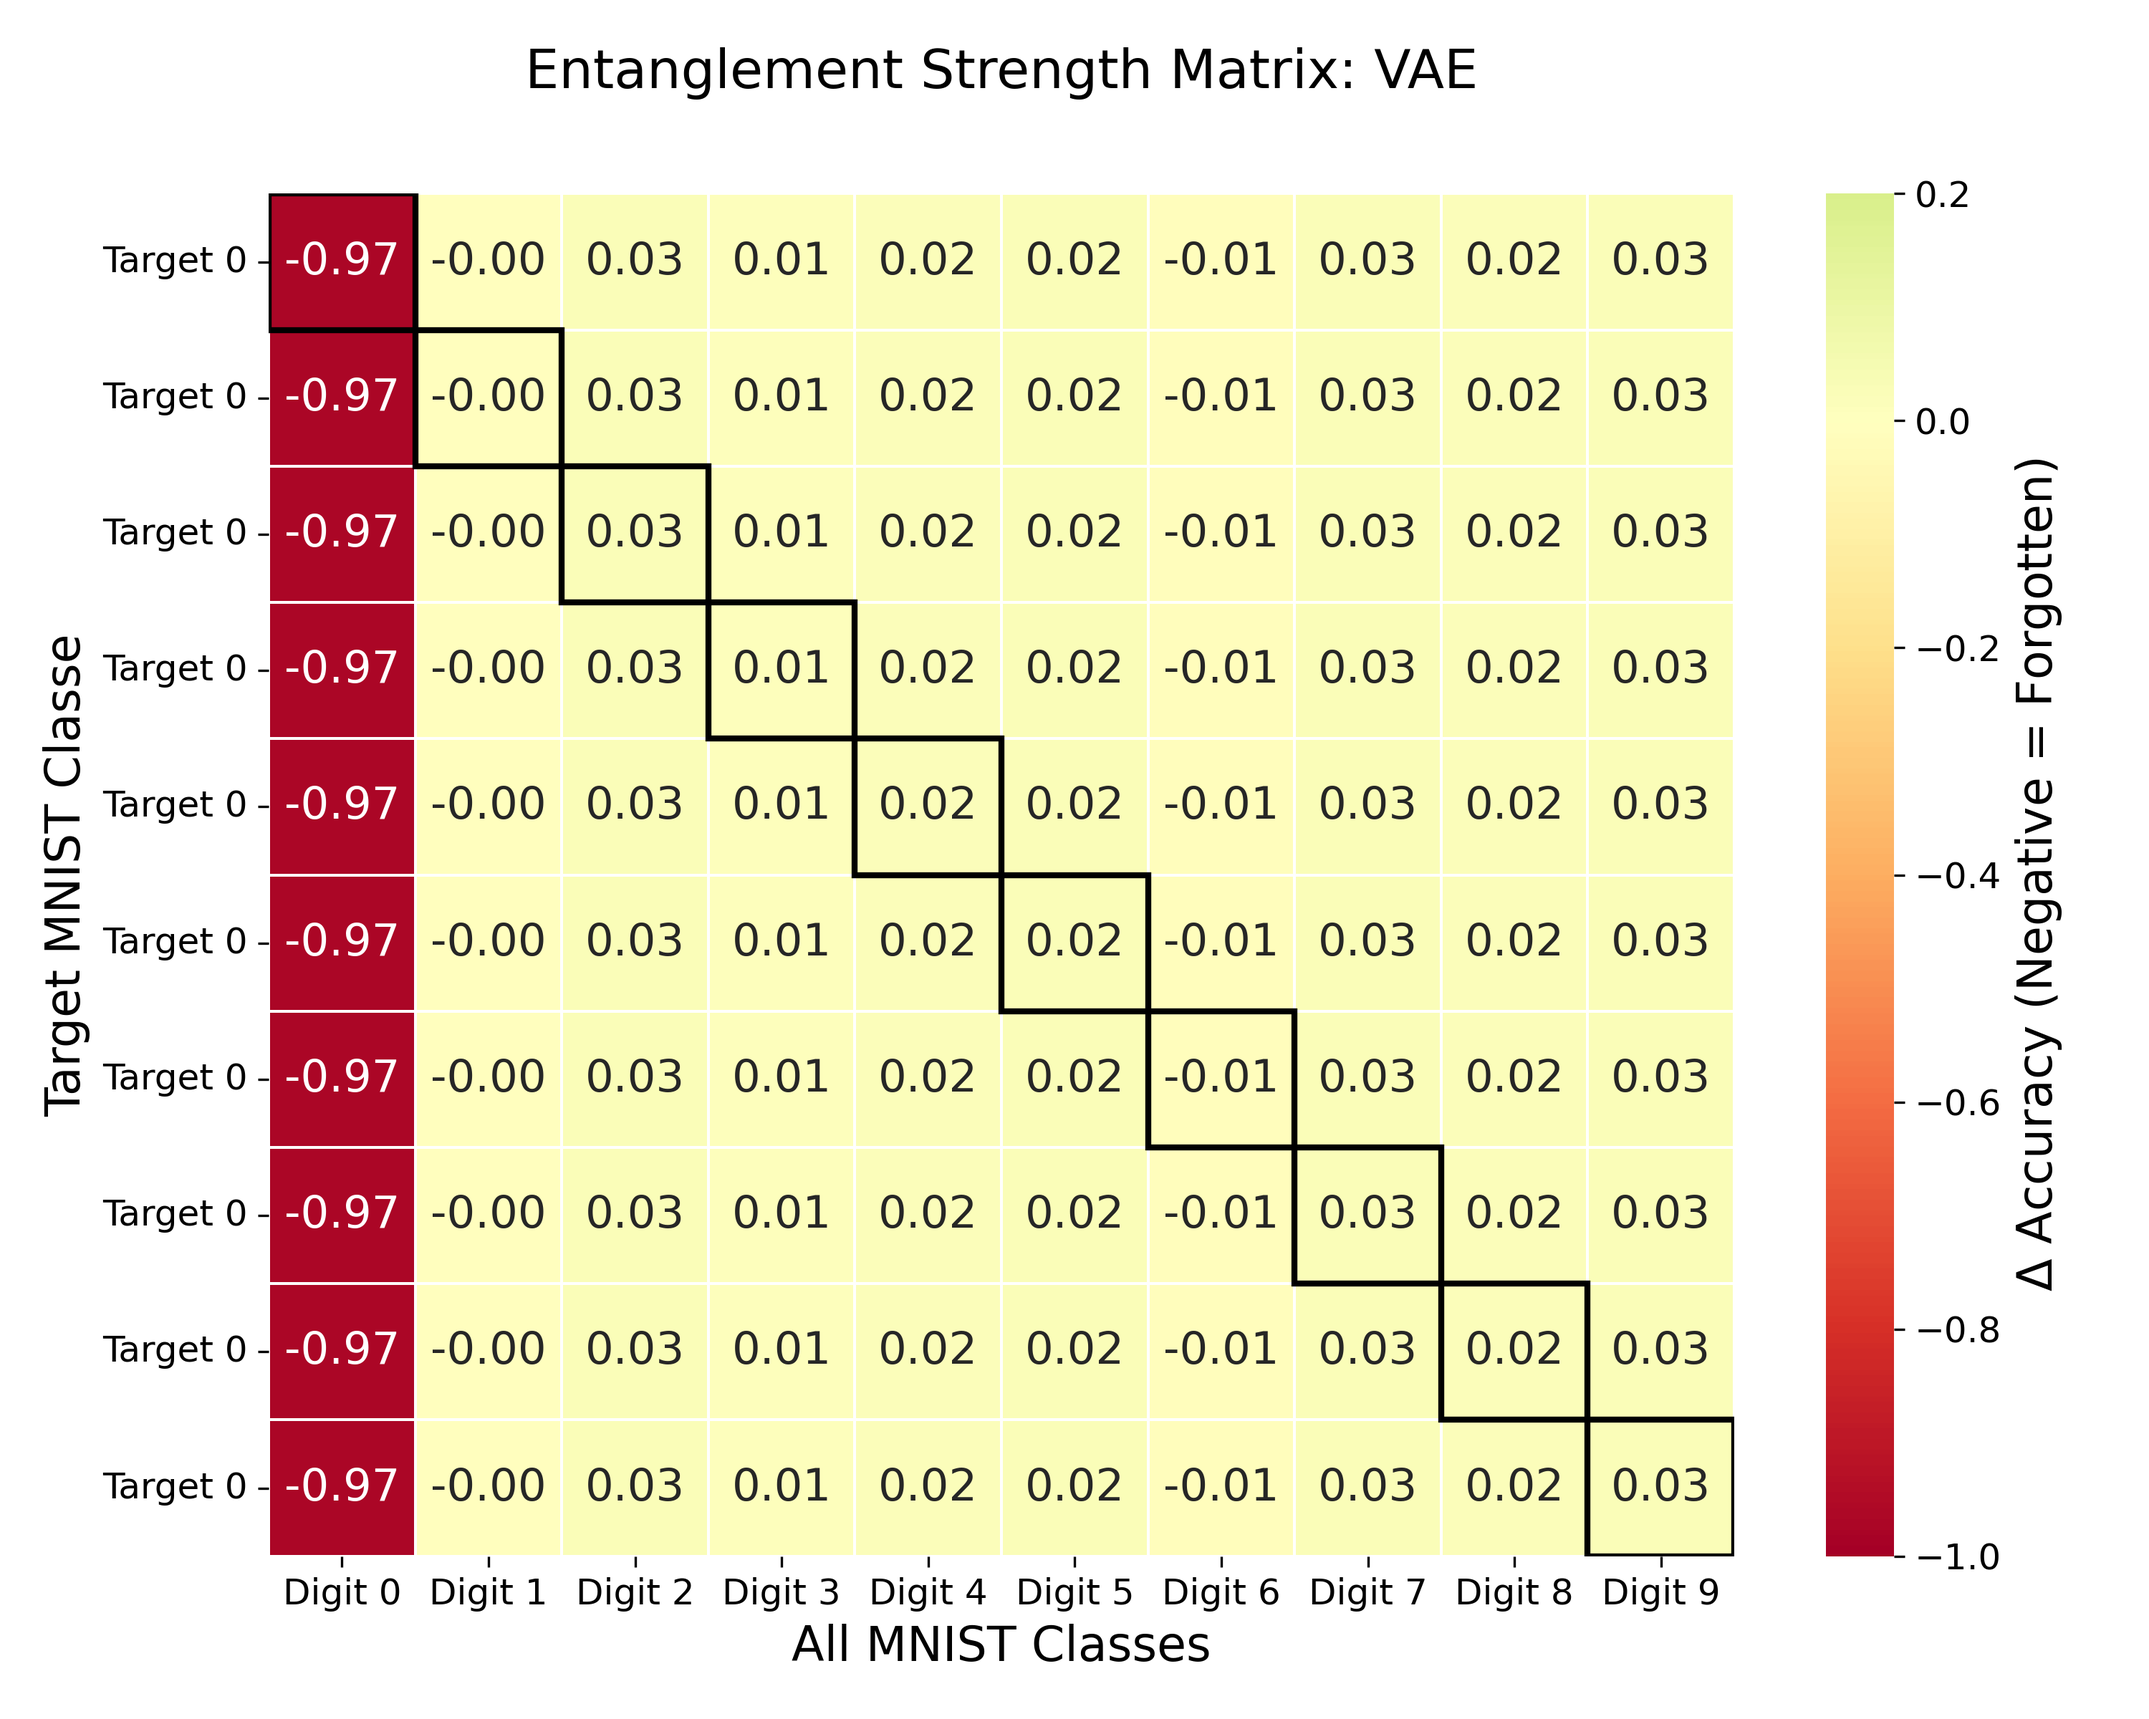
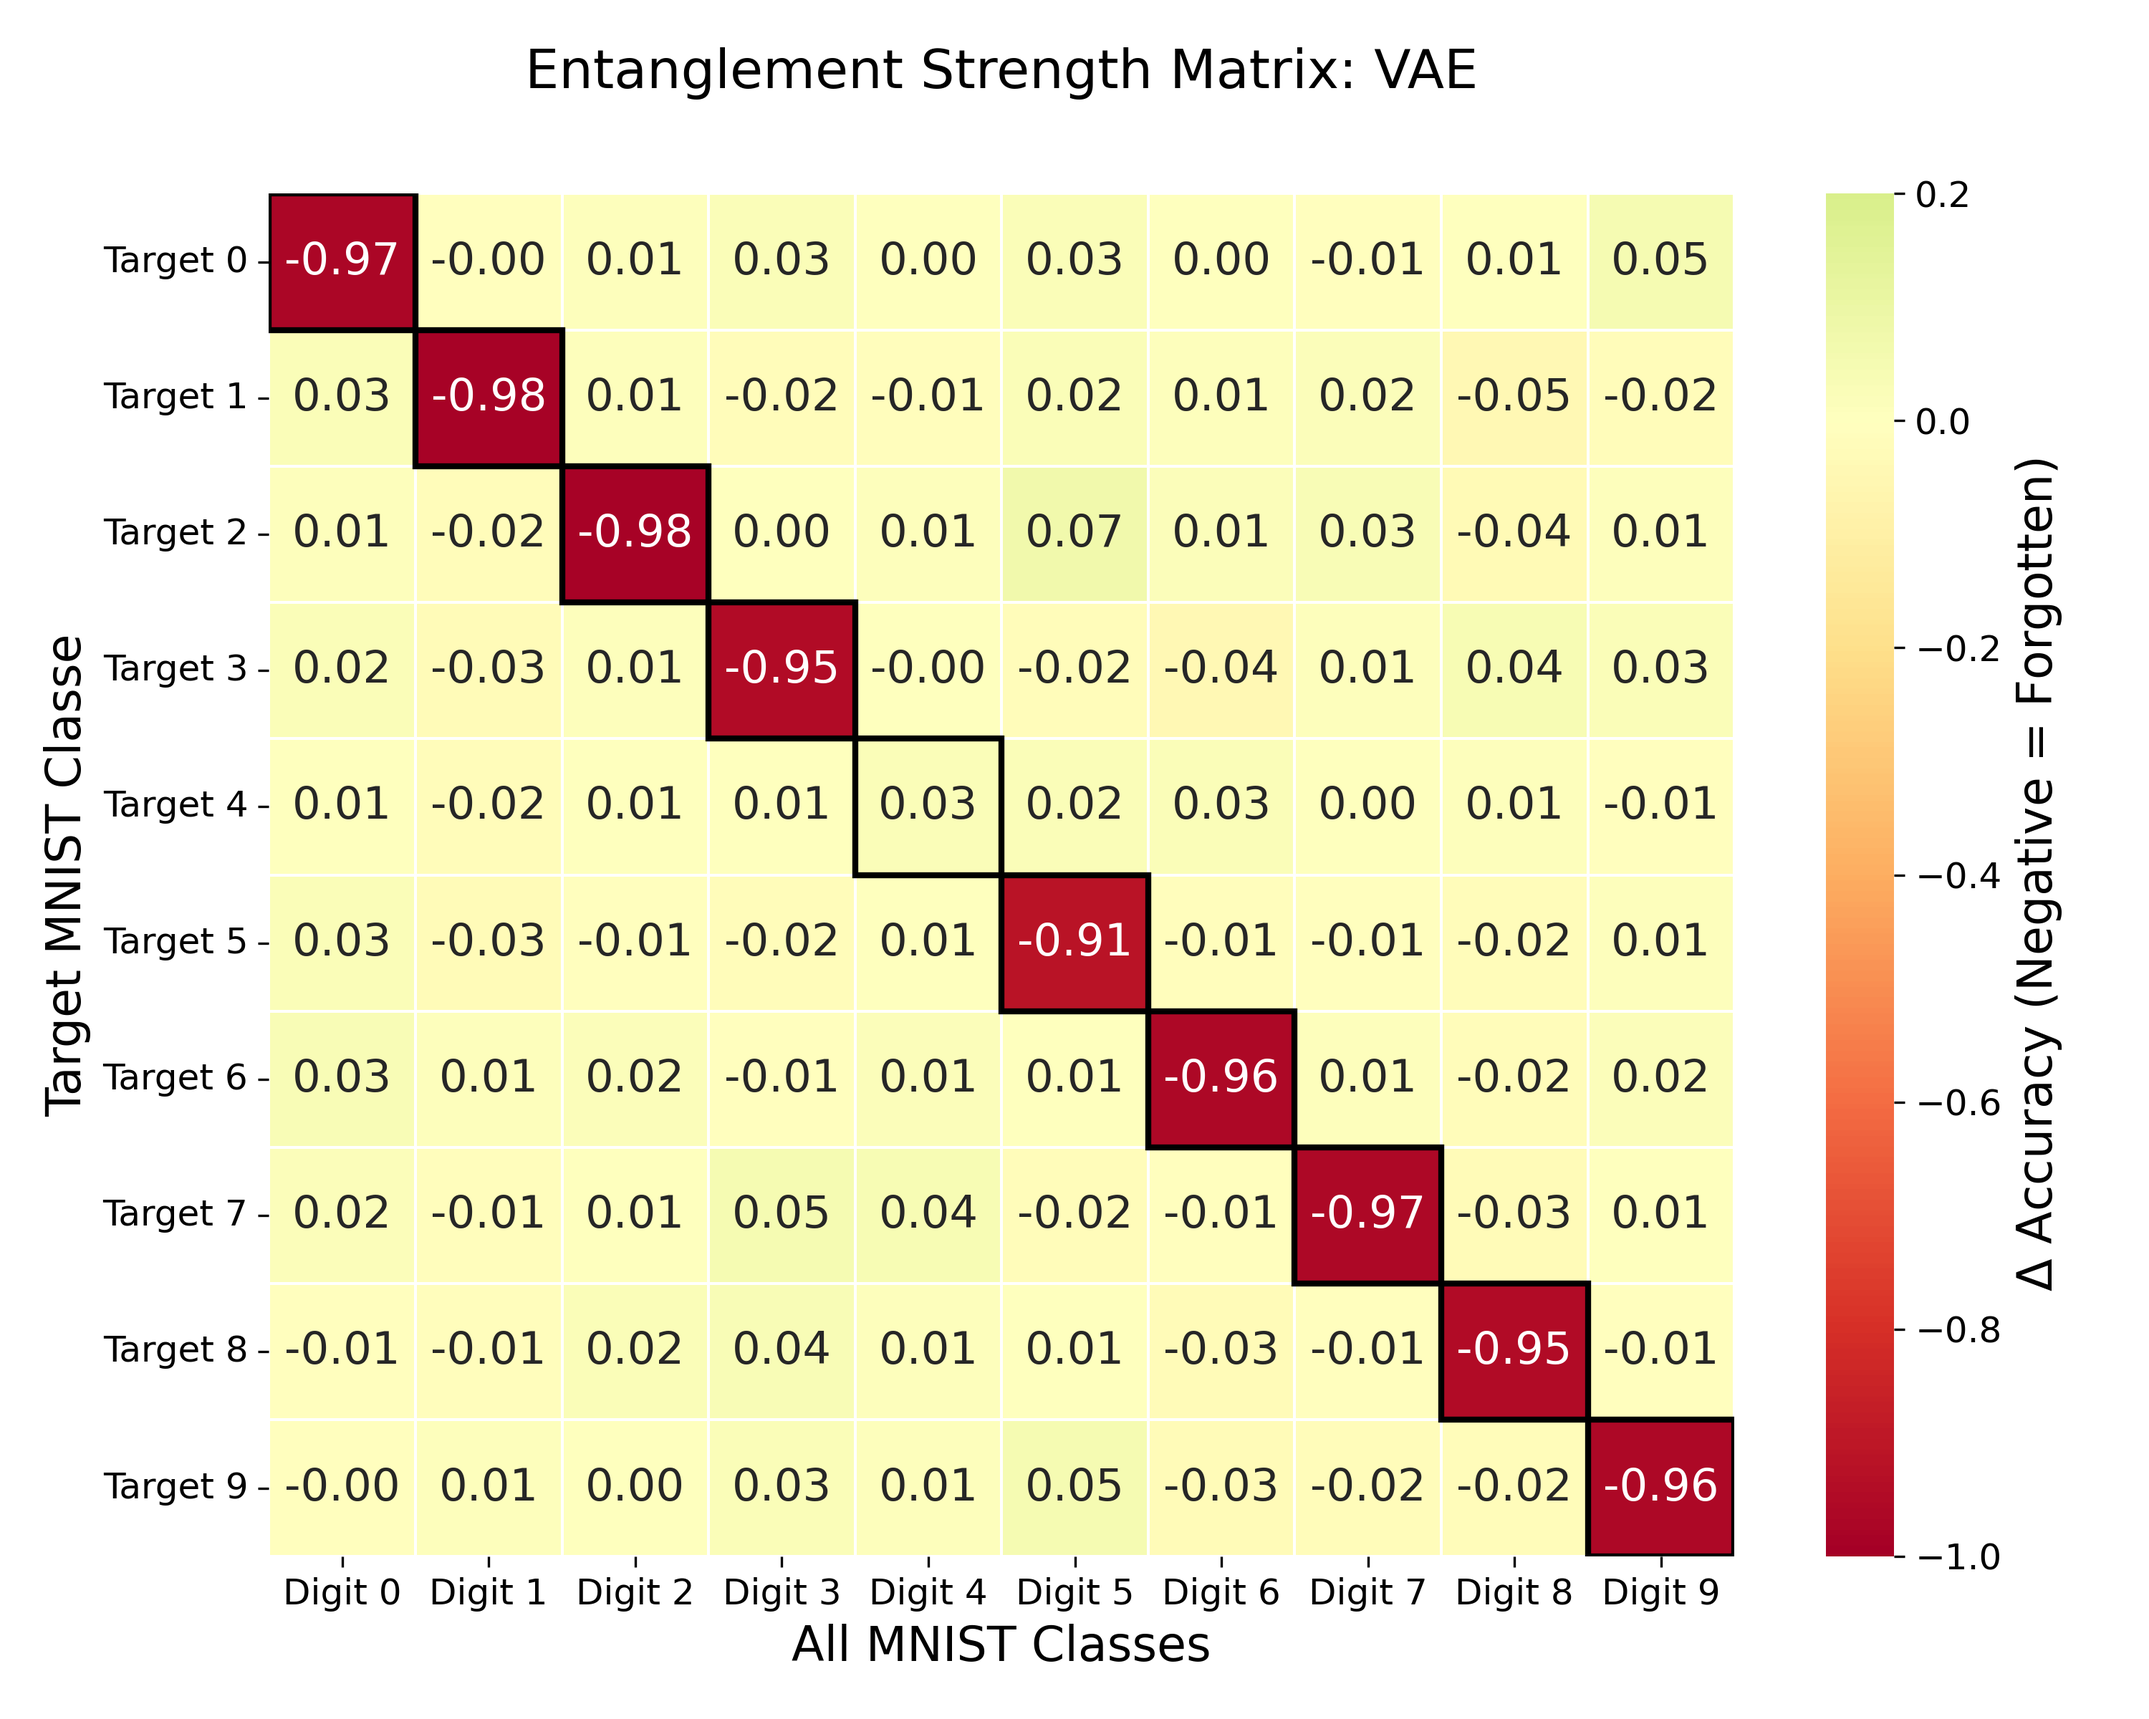
final plots and result csvs

diff --git a/evaluation/paper_plots.py b/evaluation/paper_plots.py
@@ -1,9 +1,9 @@
 import pandas as pd
 import matplotlib.pyplot as plt
 import seaborn as sns
-import numpy as np
 import os
 import logging
+import matplotlib.lines as mlines
 
 plt.rcParams.update({
     'font.size': 15,
@@ -21,26 +21,27 @@ RESULTS_CSV = f'evaluation_data/results_target_{TARGET_CLASS}.csv'
 FINAL_BEST_CSV = f'evaluation_data/final_results_target_{TARGET_CLASS}.csv'
 
 def parameter_trend_plot(results_csv=RESULTS_CSV, target_class=TARGET_CLASS):
-    os.makedirs('evaluation_data', exist_ok=True)
+    os.makedirs('evaluation_data/plots', exist_ok=True)
     df = pd.read_csv(results_csv)
     target_col = f'digit_{target_class}_after'
 
     unique_models = sorted(df['Model'].unique())
     palette = dict(zip(unique_models, sns.color_palette("plasma", len(unique_models))))
     
-    fig, axes = plt.subplots(2, 2, figsize=(16, 12))
-    axes = axes.flatten()
+    marker_map = dict(zip(unique_models, ['D', 's', 'o', '^', 'v'][:len(unique_models)]))
 
     line_kwargs = {
         'hue': 'Model',
         'style': 'Model',
         'palette': palette,
+        'markers': marker_map,
         'lw': 3,
         'alpha': 0.7,
-        'markers': 'D',
         'errorbar': None,
-        'legend': False 
     }
+
+    fig, axes = plt.subplots(2, 2, figsize=(16, 12))
+    axes = axes.flatten()
 
     if 'gamma' in df.columns:
         sns.lineplot(data=df, x='gamma', y=target_col, ax=axes[0], **line_kwargs)
@@ -50,18 +51,31 @@ def parameter_trend_plot(results_csv=RESULTS_CSV, target_class=TARGET_CLASS):
 
     if 'lmbda' in df.columns:
         df_no_gan = df[df['Model'] != 'GAN']
-        sns.lineplot(data=df_no_gan, x='lmbda', y=target_col, ax=axes[1], **line_kwargs)
+        sns.lineplot(data=df_no_gan, x='lmbda', y=target_col, ax=axes[1], legend=True, **line_kwargs)
         axes[1].set_xscale('log')
         axes[1].set_title(f'Trend: Lambda (Target: {target_class})\n')
-        axes[1].set_xlabel('Lambda (Weight Protection)')
+        axes[1].legend(title='Model', loc='best', frameon=False)
 
+    
     if 'loss_type' in df.columns:
-        sns.pointplot(data=df, x='loss_type', y=target_col, hue='Model', 
-                      palette=palette, dodge=0.4, linestyles="", markers='D', 
-                      errorbar=None, ax=axes[2])
+        dodge_val: any = 0.4 if df['Model'].nunique() > 1 else False
+
+        sns.pointplot(
+            data=df, 
+            x='loss_type', 
+            y=target_col, 
+            hue='Model', 
+            palette=palette, 
+            dodge=dodge_val, # Pylance is now happy
+            linestyles="", 
+            markers='D', 
+            errorbar=None, 
+            ax=axes[2]
+        )
         axes[2].set_title(f'Trend: Loss Function\n')
         axes[2].set_xlabel('SA Loss Type')
         axes[2].legend(title='Model', loc='best', frameon=False)
+
 
     if 'lr' in df.columns:
         sns.lineplot(data=df, x='lr', y=target_col, ax=axes[3], **line_kwargs)
@@ -115,67 +129,73 @@ def heatmap_plot(csv_path=FINAL_BEST_CSV, target_class=TARGET_CLASS):
     plt.tight_layout()
     plt.savefig(f'evaluation_data/plots/heatmap_{target_class}.png', dpi=300)
     
-    for _, row in df.iterrows():
-        gamma = row.get('gamma', '-')
-        lmbda = row.get('lmbda', '-')
-        loss = row.get('loss_type', '-')
-        lr = row.get('lr', '-')
-        
-        retention = np.mean([row[f'digit_{i}_after'] for i in range(10) if i != TARGET_CLASS])
-        
-        print(f'[{row["Model"]}], [{gamma}], [{lmbda}], [{loss}],[{lr}], [{row[f"digit_{TARGET_CLASS}_after"]:.3f}], [{retention:.3f}],')
-
-def get_best_runs_across_all_targets(csv_path=FINAL_BEST_CSV):
+def get_best_runs_across_all_targets():
     all_best_runs = []
     
     for target_class in range(10):
+        target_csv = f'evaluation_data/final_results_target_{target_class}.csv'
         
-        if not os.path.exists(csv_path):
-            logging.warning(f"Skipping Target {target_class}.")
-            continue
-            
-        df = pd.read_csv(csv_path)
-        
-        df['Target_Accuracy_After'] = df['Final_Target_Acc']
-        
-        all_best_runs.append(df)
+        if os.path.exists(target_csv):
+            df = pd.read_csv(target_csv)
+            df['Target_Class'] = target_class
+            df['Target_Accuracy_After'] = df[f'digit_{target_class}_after']
+            all_best_runs.append(df)
+        else:
+            print(f"Warning: Missing data for target {target_class}")
 
     if not all_best_runs:
         return pd.DataFrame()
         
     return pd.concat(all_best_runs, ignore_index=True)
 
-
-def stability_boxplot(best_csv_path=FINAL_BEST_CSV):
+def stability_boxplot():
     os.makedirs('evaluation_data/plots', exist_ok=True)
-    master_df = get_best_runs_across_all_targets(best_csv_path)
+    master_df = get_best_runs_across_all_targets()
     
     if master_df.empty:
-        print("No data found to plot.")
+        print("No data found to plot. Check if final_results_target_X.csv files exist.")
         return
 
     plt.figure(figsize=(10, 6))
     
-    sns.boxplot(data=master_df, x='Model', y='Target_Accuracy_After', 
-                palette='plasma', width=0.5, fliersize=5)
+    sns.boxplot(
+        data=master_df, 
+        x='Model', 
+        y='Target_Accuracy_After', 
+        hue='Model', 
+        palette='plasma', 
+        width=0.5, 
+        fliersize=0,
+        legend=False
+    )
     
-    sns.swarmplot(data=master_df, x='Model', y='Target_Accuracy_After', 
-                  color=".25", size=6, alpha=0.7)
+    sns.swarmplot(
+        data=master_df, 
+        x='Model', 
+        y='Target_Accuracy_After', 
+        color=".25", 
+        size=6, 
+        alpha=0.7,
+    )
+    datapoints_handle = mlines.Line2D([], [], color='.25', marker='o', linestyle='None',markersize=6, alpha=0.7, label='Class Accuracy')
+    threshold_line = plt.axhline(0.05, ls='--', color='green', alpha=0.5, label='Forgetting Threshold')    
 
-    plt.title('Unlearning Stability Across All MNIST Classes (Lower is Better)\n', pad=15)
+    plt.legend(handles=[datapoints_handle, threshold_line], 
+            loc='upper right', 
+            frameon=True,
+            fontsize=12)
+
+    plt.title('Unlearning Stability Across All MNIST Classes\n(Lower Accuracy = Better Forgetting)', pad=15)
     plt.ylabel('Target Class Accuracy After SA')
-    plt.xlabel('Model')
-    plt.axhline(0.05, ls='--', color='green', alpha=0.5, label='Perfect Forgetting Threshold (0.05)')
-    plt.legend()
-    
+    plt.yscale("log")
+    plt.grid(axis='y', linestyle='--', alpha=0.3)
     plt.tight_layout()
-    save_path = 'evaluation_data/plots/stability_boxplot_master.png'
-    plt.savefig(save_path, dpi=300)
+    plt.savefig('evaluation_data/plots/stability_boxplot_master.png', dpi=300)
 
-def entanglement_matrix(model_name='GAN', best_csv_path=FINAL_BEST_CSV):
+def entanglement_matrix(model_name='GAN'):
 
     os.makedirs('evaluation_data/plots', exist_ok=True)
-    master_df = get_best_runs_across_all_targets(best_csv_path)
+    master_df = get_best_runs_across_all_targets()
     
     if master_df.empty:
         return
@@ -240,15 +260,11 @@ def plot_all(target_classes=range(10)):
         logging.info(f"Generating plots for target {c}")
         parameter_trend_plot(res, c)
         heatmap_plot(best, c)
-        stability_boxplot(best)
+        stability_boxplot()
     
     for model in models:
         entanglement_matrix(model_name=model)
 
 if __name__ == "__main__":
-    parameter_trend_plot()
-    heatmap_plot()
+    #plot_all(range(10))
     stability_boxplot()
-    
-    for model in ["GAN", "Autoregressive", "VAE", "RectifiedFlow", "NVP"]:
-        entanglement_matrix(model_name=model)
